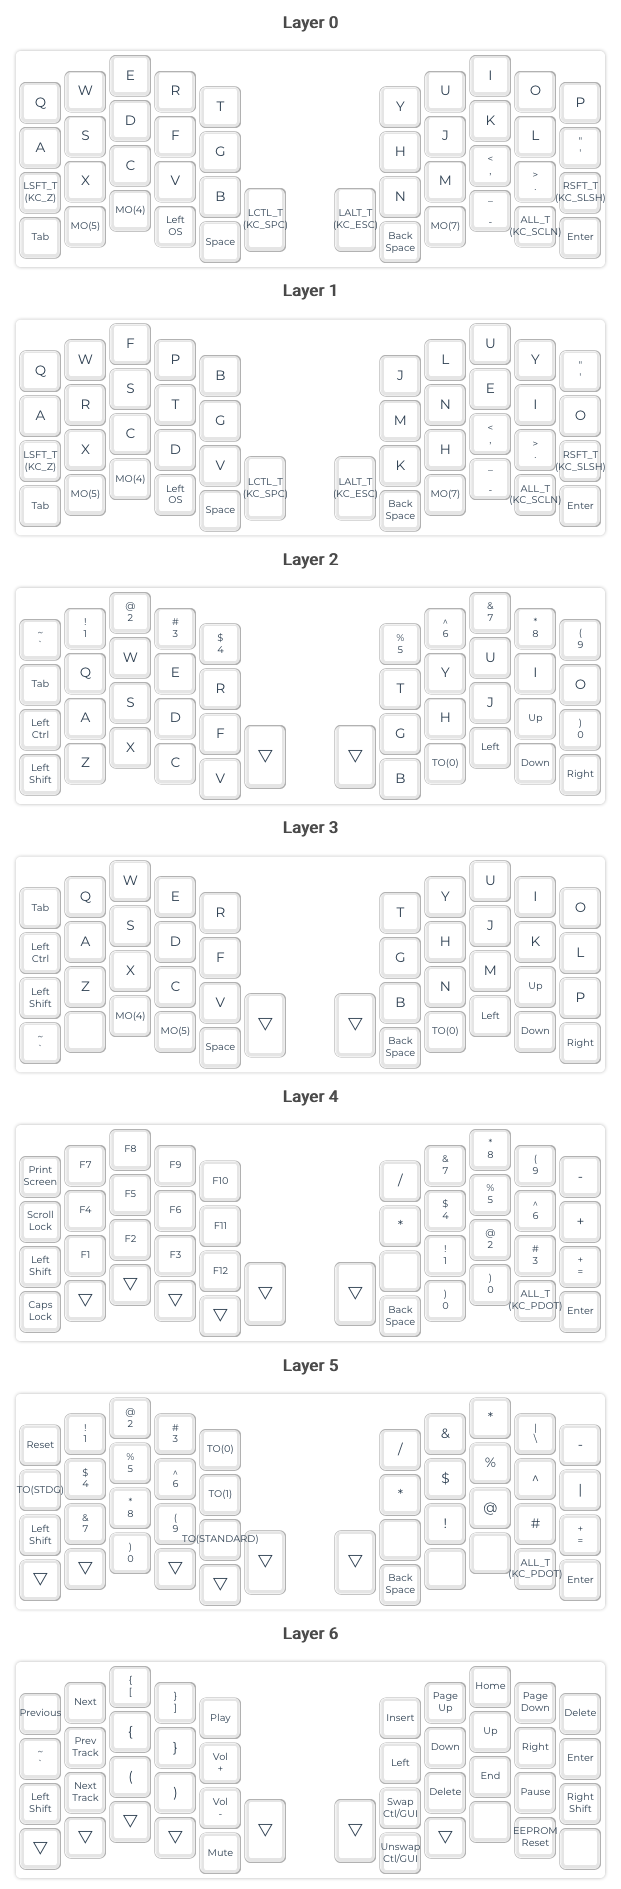
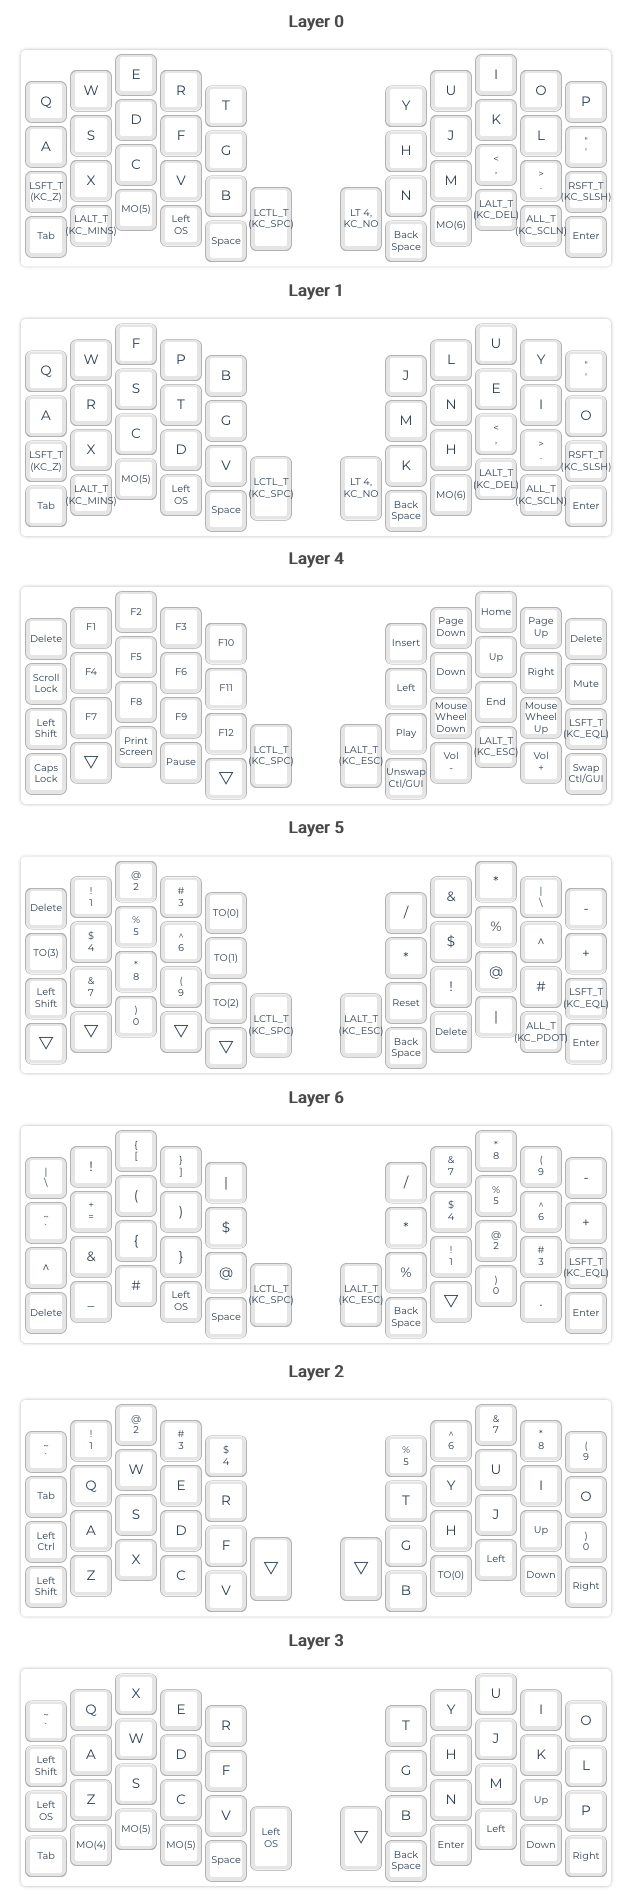
docs: update cheatsheet

diff --git a/keyboards/atreus/keymaps/icecreammatt/README.md b/keyboards/atreus/keymaps/icecreammatt/README.md
@@ -1,1 +1,2 @@
-![Screenshot 2021-09-16 at 00-05-18 QMK Configurator](https://user-images.githubusercontent.com/1154569/133566000-733718ff-2f66-46b7-a1ae-6657eab394e6.png)![Screen Shot 2021-09-15 at 9 15 57 PM](https://user-images.githubusercontent.com/1154569/133548509-f391ba86-b150-4560-a098-a4ebb0c64994.png)
+![cheatsheet](https://user-images.githubusercontent.com/1154569/134296723-f9962d54-75ef-44a1-84c5-5d4d27d3c108.png)
+![Screen Shot 2021-09-15 at 9 15 57 PM](https://user-images.githubusercontent.com/1154569/133548509-f391ba86-b150-4560-a098-a4ebb0c64994.png)
